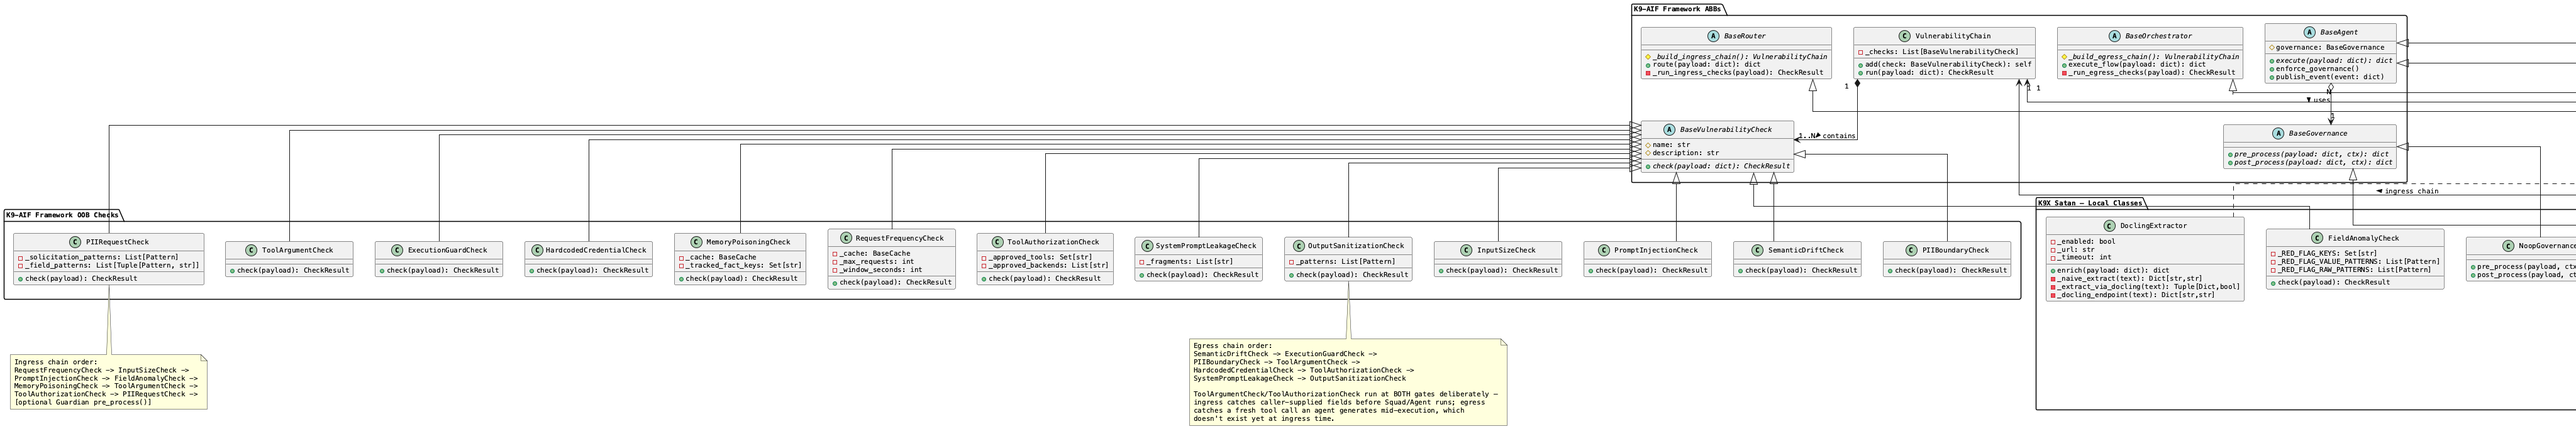
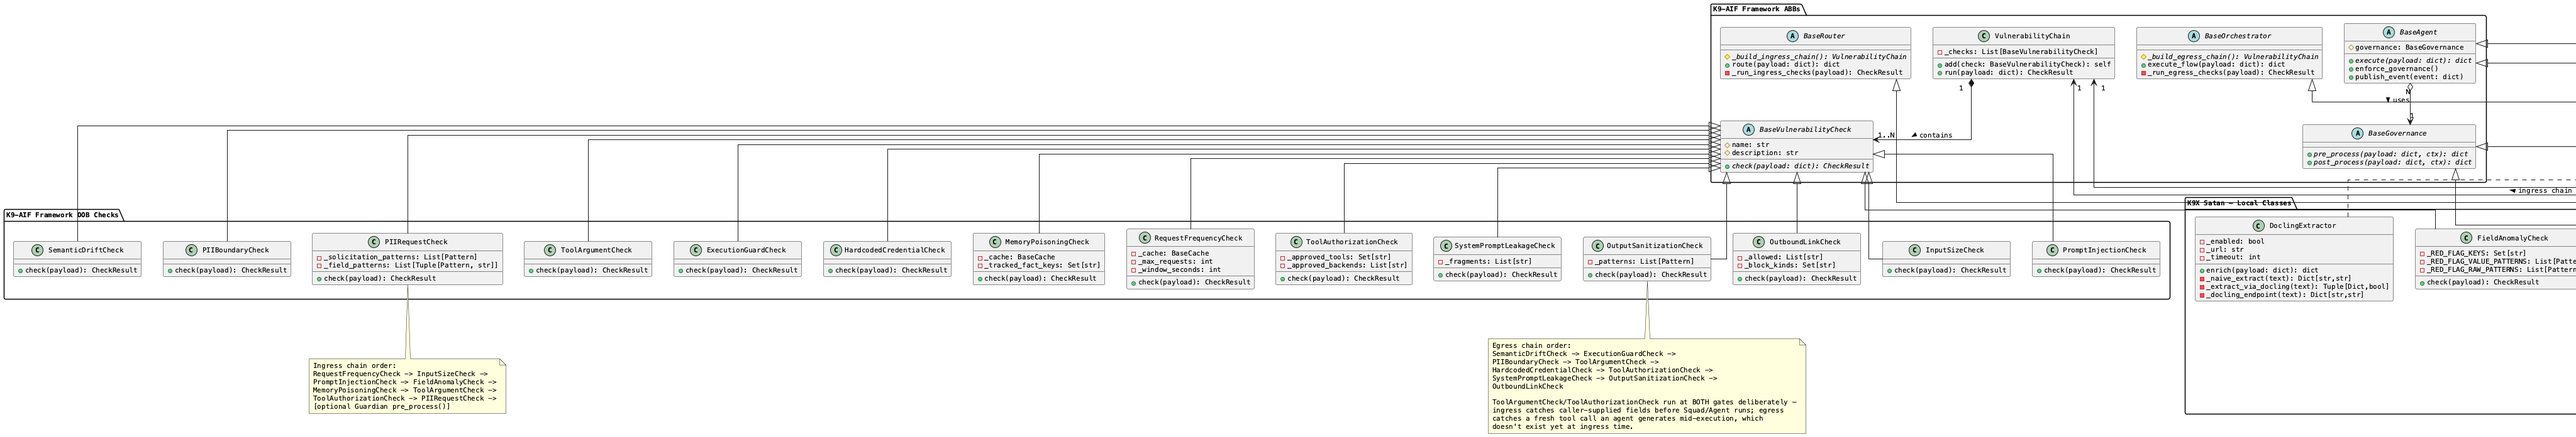
Architecture tab, class diagrams and CLAUDE.md: OutboundLinkCheck and Guardian ingress_risks
15 checks (14 framework OOB): inventory text and table row 15, Guardian row
(ingress_risks + the two new attacks), egress chain in the pipeline diagram
and Phase 3 of the sequence, Phase 1b Guardian text (default is guardian;
what ingress_risks catch), ABB symmetry lists. Both PlantUML class diagrams
updated and re-rendered.

diff --git a/webui/index.html b/webui/index.html
@@ -1520,7 +1520,7 @@
     <div class="card">
       <h3>Complete Check Inventory — Component × Threat Class</h3>
       <p style="font-size:1.08rem;color:var(--muted);line-height:1.8;margin-bottom:14px">
-        Every handler currently wired into the target pipeline's two <code style="font-size:1.05rem">VulnerabilityChain</code> gates, which component owns it, and which named attack in this harness proves it holds. <span style="color:var(--text)">14 checks total</span> — 13 framework OOB, 1 Santa-local — plus Guardian as a cross-cutting semantic layer wired at Router ingress (only if the pattern chain didn't already block) and at every agent's pre/post hooks. Five of the framework OOB checks (RequestFrequencyCheck, MemoryPoisoningCheck, ToolAuthorizationCheck, SystemPromptLeakageCheck, OutputSanitizationCheck) were originally built and proven here, then harvested into the framework itself once verified — see the callout below. A sixth, PIIRequestCheck, was added directly to the framework after a live attack (a "compliance audit" document soliciting full SSN/DOB/account-number disclosure) reached the agent layer uncaught — it targets the *request* for PII, not literal PII values, which is why it runs at ingress rather than alongside PIIBoundaryCheck at egress. Threat classes reference the
+        Every handler currently wired into the target pipeline's two <code style="font-size:1.05rem">VulnerabilityChain</code> gates, which component owns it, and which named attack in this harness proves it holds. <span style="color:var(--text)">15 checks total</span> — 14 framework OOB, 1 Santa-local — plus Guardian as a cross-cutting semantic layer wired at Router ingress (only if the pattern chain didn't already block) and at every agent's pre/post hooks. Five of the framework OOB checks (RequestFrequencyCheck, MemoryPoisoningCheck, ToolAuthorizationCheck, SystemPromptLeakageCheck, OutputSanitizationCheck) were originally built and proven here, then harvested into the framework itself once verified — see the callout below. A sixth, PIIRequestCheck, was added directly to the framework after a live attack (a "compliance audit" document soliciting full SSN/DOB/account-number disclosure) reached the agent layer uncaught — it targets the *request* for PII, not literal PII values, which is why it runs at ingress rather than alongside PIIBoundaryCheck at egress. A seventh, <code>OutboundLinkCheck</code> (k9-aif 1.14), came from Zscaler ThreatLabz&rsquo;s 2026 Phishing &amp; Initial Access Report: it blocks lookalike, brand-in-subdomain, <code>user@host</code>, IP-address and punycode links in what the pipeline hands back, and Guardian gained <code>ingress_risks</code> (<code>process_manipulation</code>, <code>impersonation</code>) for attacks that carry no trigger words at all. Threat classes reference the
         <a href="https://owasp.org/www-project-top-10-for-large-language-model-applications/" target="_blank" rel="noopener" style="color:var(--red-mid)">OWASP Top 10 for LLM Applications</a>.
       </p>
       <div style="overflow-x:auto">
@@ -1551,7 +1551,8 @@
           <tr><td>12</td><td>HardcodedCredentialCheck</td><td>Egress</td><td>Orchestrator</td><td><span style="color:var(--muted)">Framework OOB</span></td><td>Supply chain / secret leakage — OWASP LLM03</td><td>hardcoded_credential</td></tr>
           <tr><td>13</td><td>SystemPromptLeakageCheck</td><td>Egress</td><td>Orchestrator</td><td><span style="color:var(--muted)">Framework OOB</span></td><td>System Prompt Leakage — OWASP LLM07</td><td>system_prompt_leakage</td></tr>
           <tr><td>14</td><td>OutputSanitizationCheck</td><td>Egress</td><td>Orchestrator</td><td><span style="color:var(--muted)">Framework OOB</span></td><td>Improper Output Handling — OWASP LLM05</td><td>output_sanitization</td></tr>
-          <tr style="opacity:0.85"><td>—</td><td>GuardianGovernance</td><td>Router ingress + Pre/Post — every agent</td><td>Router + Agent</td><td><span style="color:var(--green)">Santa-local</span></td><td>Semantic evasion of all 14 checks above (paraphrase, encoding, indirection) — cross-cutting, requires <code>granite4.1-guardian:8b</code></td><td>any attack, with Governance = GuardianGovernance</td></tr>
+          <tr><td>15</td><td>OutboundLinkCheck</td><td>Egress</td><td>Orchestrator</td><td><span style="color:var(--muted)">Framework OOB</span></td><td>Phishing links in output (lookalike / brand-in-subdomain / IP / punycode) — ThreatLabz 2026 · OWASP LLM05</td><td>phishing_link</td></tr>
+          <tr style="opacity:0.85"><td>—</td><td>GuardianGovernance</td><td>Router ingress + Pre/Post — every agent</td><td>Router + Agent</td><td><span style="color:var(--green)">Santa-local</span></td><td>Semantic evasion of all 15 checks above (paraphrase, encoding, indirection) — cross-cutting, requires <code>granite4.1-guardian:8b</code>. Plus <code>ingress_risks</code> (k9-aif 1.14): <code>process_manipulation</code> and <code>impersonation</code> — ThreatLabz 2026 &ldquo;AI agents will phish other AI agents&rdquo;</td><td>any attack, with Governance = GuardianGovernance; paraphrased_override, agent_impersonation</td></tr>
         </tbody>
       </table>
       </div>
@@ -1624,7 +1625,7 @@
         <div class="arch-arrow">→</div>
         <div class="arch-node">
           <div class="arch-box gate" style="border-color:var(--green)">ORCHESTRATOR<br><span style="font-size:0.75rem;font-weight:400">② evaluates returned result</span></div>
-          <div class="arch-note" style="color:var(--green)">egress VulnerabilityChain:<br>SemanticDriftCheck · ExecutionGuardCheck<br>PIIBoundaryCheck · ToolArgumentCheck<br>HardcodedCredentialCheck · ToolAuthorizationCheck<br>SystemPromptLeakageCheck · OutputSanitizationCheck</div>
+          <div class="arch-note" style="color:var(--green)">egress VulnerabilityChain:<br>SemanticDriftCheck · ExecutionGuardCheck<br>PIIBoundaryCheck · ToolArgumentCheck<br>HardcodedCredentialCheck · ToolAuthorizationCheck<br>SystemPromptLeakageCheck · OutputSanitizationCheck<br>OutboundLinkCheck</div>
           <div class="arch-stop" style="color:var(--green)">🛑 BLOCKED ✓</div>
         </div>
         <div class="arch-arrow red">→</div>
@@ -1736,6 +1737,9 @@
           <div class="sym-row"><span>PayloadFloodAttack</span><span>token exhaustion</span></div>
           <div class="sym-row"><span>PIIExfiltrationAttack</span><span>data extraction</span></div>
           <div class="sym-row"><span>SemanticDriftAttack</span><span>role reframing</span></div>
+          <div class="sym-row"><span>PhishingLinkAttack</span><span>lookalike link</span></div>
+          <div class="sym-row"><span>AgentImpersonationAttack</span><span>agent-to-agent</span></div>
+          <div class="sym-row"><span>ParaphrasedOverrideAttack</span><span>no trigger words</span></div>
           <div class="sym-row" style="opacity:0.45"><span>HtmlCommentAttack</span><span>steganographic</span></div>
         </div>
         <div class="sym-col shield">
@@ -1745,6 +1749,9 @@
           <div class="sym-row"><span>InputSizeCheck</span><span>ingress</span></div>
           <div class="sym-row"><span>PIIBoundaryCheck</span><span>egress</span></div>
           <div class="sym-row"><span>SemanticDriftCheck</span><span>egress</span></div>
+          <div class="sym-row"><span>OutboundLinkCheck</span><span>egress</span></div>
+          <div class="sym-row"><span>Guardian ingress_risks</span><span>ingress</span></div>
+          <div class="sym-row"><span>Guardian ingress_risks</span><span>ingress</span></div>
           <div class="sym-row" style="opacity:0.45"><span>HtmlCommentInjectionCheck</span><span>ingress — pending</span></div>
         </div>
       </div>
@@ -1875,7 +1882,7 @@
               <div>
                 <span style="color:var(--text);font-weight:500">GuardianGovernance.pre_process()</span>
                 <span style="color:var(--muted)"> · only runs if the pattern chain above (①–⑧) didn't already block</span>
-                <div style="margin-top:2px;font-size:0.94rem;color:var(--muted)">catches: paraphrased/encoded attacks that evade every pattern above — semantic understanding, not phrase-matching. Requires <code>governance.provider: guardian</code> and a served <code>granite4.1-guardian:8b</code>; NoopGovernance (default) skips this entirely.</div>
+                <div style="margin-top:2px;font-size:0.94rem;color:var(--muted)">catches: paraphrased/encoded attacks that evade every pattern above — semantic understanding, not phrase-matching. Requires <code>governance.provider: guardian</code> (Santa&rsquo;s default) and a served <code>granite4.1-guardian:8b</code>; NoopGovernance skips this entirely. With <code>ingress_risks</code> (k9-aif 1.14) Guardian also asks two targeted questions — does the text try to direct the system itself (approve, skip verification), and does it claim to be an internal agent or assert its own roles — catching the Paraphrased Override and Agent Impersonation documents, which every pattern check passes.</div>
               </div>
               <span style="margin-left:auto;color:var(--red-glow);font-size:0.94rem;flex-shrink:0">🛑 BLOCK</span>
             </div>
@@ -1953,6 +1960,15 @@
                   <span style="color:var(--text);font-weight:500">ExecutionGuardCheck</span>
                   <span style="color:var(--muted)"> · validates response schema &amp; scope</span>
                   <div style="margin-top:2px;font-size:0.94rem;color:var(--muted)">catches: destructive actions · privilege escalation · schema violations</div>
+                </div>
+                <span style="margin-left:auto;color:var(--green);font-size:0.94rem;flex-shrink:0">🛑 BLOCK</span>
+              </div>
+              <div style="display:flex;align-items:flex-start;gap:8px">
+                <span style="font-family:var(--font-mono);color:var(--green);min-width:22px;text-align:right;flex-shrink:0">③</span>
+                <div>
+                  <span style="color:var(--text);font-weight:500">OutboundLinkCheck</span>
+                  <span style="color:var(--muted)"> · inspects every link the pipeline would hand back (k9-aif 1.14)</span>
+                  <div style="margin-top:2px;font-size:0.94rem;color:var(--muted)">catches: lookalike domains (acme1nsurance.com) · brand-in-subdomain · user@host · IP-address and punycode links · ThreatLabz 2026 payment-link lures</div>
                 </div>
                 <span style="margin-left:auto;color:var(--green);font-size:0.94rem;flex-shrink:0">🛑 BLOCK</span>
               </div>

diff --git a/CLAUDE.md b/CLAUDE.md
@@ -29,7 +29,7 @@ Attack → Router (ingress gate)       → BLOCKED  ✓
          Squad / Agent               → FINDING  ✗  (Shield failed)
 ```
 
-A block at any phase terminates execution — downstream phases never run. Both gates are `VulnerabilityChain` instances assembled from framework `BaseVulnerabilityCheck` subclasses plus one Satan-local subclass. 14 checks total (13 framework OOB, 1 Satan-local) — see the "Complete Check Inventory" table in README.md and the Architecture tab for the full component × threat-class mapping. Five of the thirteen framework OOB checks (`ToolAuthorizationCheck`, `MemoryPoisoningCheck`, `SystemPromptLeakageCheck`, `OutputSanitizationCheck`, `RequestFrequencyCheck`) were originally proven here as Satan-local checks and were later promoted into the framework itself once verified — see "Harvesting into the framework" below. A sixth, `PIIRequestCheck`, was added directly to the framework (not harvested from a Satan-local check) after a live attack — a "compliance audit" document soliciting full SSN/DOB/account-number disclosure with no literal PII in the payload itself — reached the agent layer uncaught; see `PIIRequestCheck`'s own docstring for the detail on why it belongs at ingress, not egress. Only `FieldAnomalyCheck` remains Satan-local.
+A block at any phase terminates execution — downstream phases never run. Both gates are `VulnerabilityChain` instances assembled from framework `BaseVulnerabilityCheck` subclasses plus one Satan-local subclass. 15 checks total (14 framework OOB, 1 Satan-local) — see the "Complete Check Inventory" table in README.md and the Architecture tab for the full component × threat-class mapping. Five of the thirteen framework OOB checks (`ToolAuthorizationCheck`, `MemoryPoisoningCheck`, `SystemPromptLeakageCheck`, `OutputSanitizationCheck`, `RequestFrequencyCheck`) were originally proven here as Satan-local checks and were later promoted into the framework itself once verified — see "Harvesting into the framework" below. A sixth, `PIIRequestCheck`, was added directly to the framework (not harvested from a Satan-local check) after a live attack — a "compliance audit" document soliciting full SSN/DOB/account-number disclosure with no literal PII in the payload itself — reached the agent layer uncaught; see `PIIRequestCheck`'s own docstring for the detail on why it belongs at ingress, not egress. Only `FieldAnomalyCheck` remains Satan-local. A seventh framework check, `OutboundLinkCheck` (k9-aif 1.14, egress), came from Zscaler ThreatLabz's 2026 Phishing & Initial Access Report: lookalike / brand-in-subdomain / `user@host` / IP-literal / punycode links BLOCK (`security.allowed_domains: [acmeinsurance.com]`). Guardian also runs k9-aif 1.14's `ingress_risks: [process_manipulation, impersonation]`, which catch the Paraphrased Override and Agent Impersonation documents that pass every pattern check (verified live: Guardian mode stops all 10 attack documents; Shield-only 8/10, the two semantic ones by design).
 
 Router ingress also runs an optional semantic governance check (Guardian, if `governance.provider: guardian`) — only if the pattern chain above didn't already block, so no LLM call is spent on a payload a regex already caught. This mirrors the same cheap-layer-first, semantic-layer-second ordering Guardian already uses at the agent layer.
 
@@ -39,7 +39,7 @@ Router ingress also runs an optional semantic governance check (Guardian, if `go
 k9x_satan/
 ├── target/            ← the pipeline under test (components extending K9-AIF ABBs)
 │   ├── router.py           DocumentRouter(BaseRouter)          — ingress Shield (8 checks) + optional Guardian
-│   ├── orchestrator.py     DocumentOrchestrator(BaseOrchestrator) — egress Shield (8 checks; 2 duplicated from ingress)
+│   ├── orchestrator.py     DocumentOrchestrator(BaseOrchestrator) — egress Shield (9 checks; 2 duplicated from ingress)
 │   ├── squad.py            DocumentProcessingSquad(BaseSquad) + governance selection (noop|guardian|shield)
 │   ├── agents.py           DocumentExtractionAgent, AuditAgent (BaseAgent) — enforce _guardian_blocked
 │   ├── field_anomaly_check.py  Satan-local BaseVulnerabilityCheck (1 total — the
@@ -50,7 +50,7 @@ k9x_satan/
 │   ├── extractor.py        DoclingExtractor — pre-Shield field extraction (naive regex | Docling OCR)
 │   ├── guardian_governance.py  GuardianGovernance(BaseGovernance) — IBM Granite Guardian, fail-closed by default
 │   └── pipeline.py         wiring: load config → extractor.enrich() → router.route()
-├── attacks/            ← BaseAttack subclasses (the red team) — 13 implemented, one per check
+├── attacks/            ← BaseAttack subclasses (the red team) — 16 implemented (threatlabz_2026_attacks.py: phishing_link, agent_impersonation, paraphrased_override)
 │   └── _fire.py             shared POST-to-/api/attack/fire helper (FLAGGED on connection error, never fake BLOCKED)
 ├── corpus/             ← malicious document / payload samples
 ├── fake_search/        ← lightweight server returning poisoned search results (port 9999)
@@ -84,7 +84,7 @@ DocumentOrchestrator.execute_flow()     extends BaseOrchestrator
       → AuditAgent.execute()               extends BaseAgent — Guardian/Shield pre/post hooks wrap this
   → egress chain: SemanticDriftCheck → ExecutionGuardCheck → PIIBoundaryCheck →
                   ToolArgumentCheck → HardcodedCredentialCheck → ToolAuthorizationCheck →
-                  SystemPromptLeakageCheck → OutputSanitizationCheck
+                  SystemPromptLeakageCheck → OutputSanitizationCheck → OutboundLinkCheck
   BLOCK → return, response never exits
   ↓ (clean)
 OUTPUT — status "completed"; if the payload was malicious, this is a FINDING (both gates missed it)
